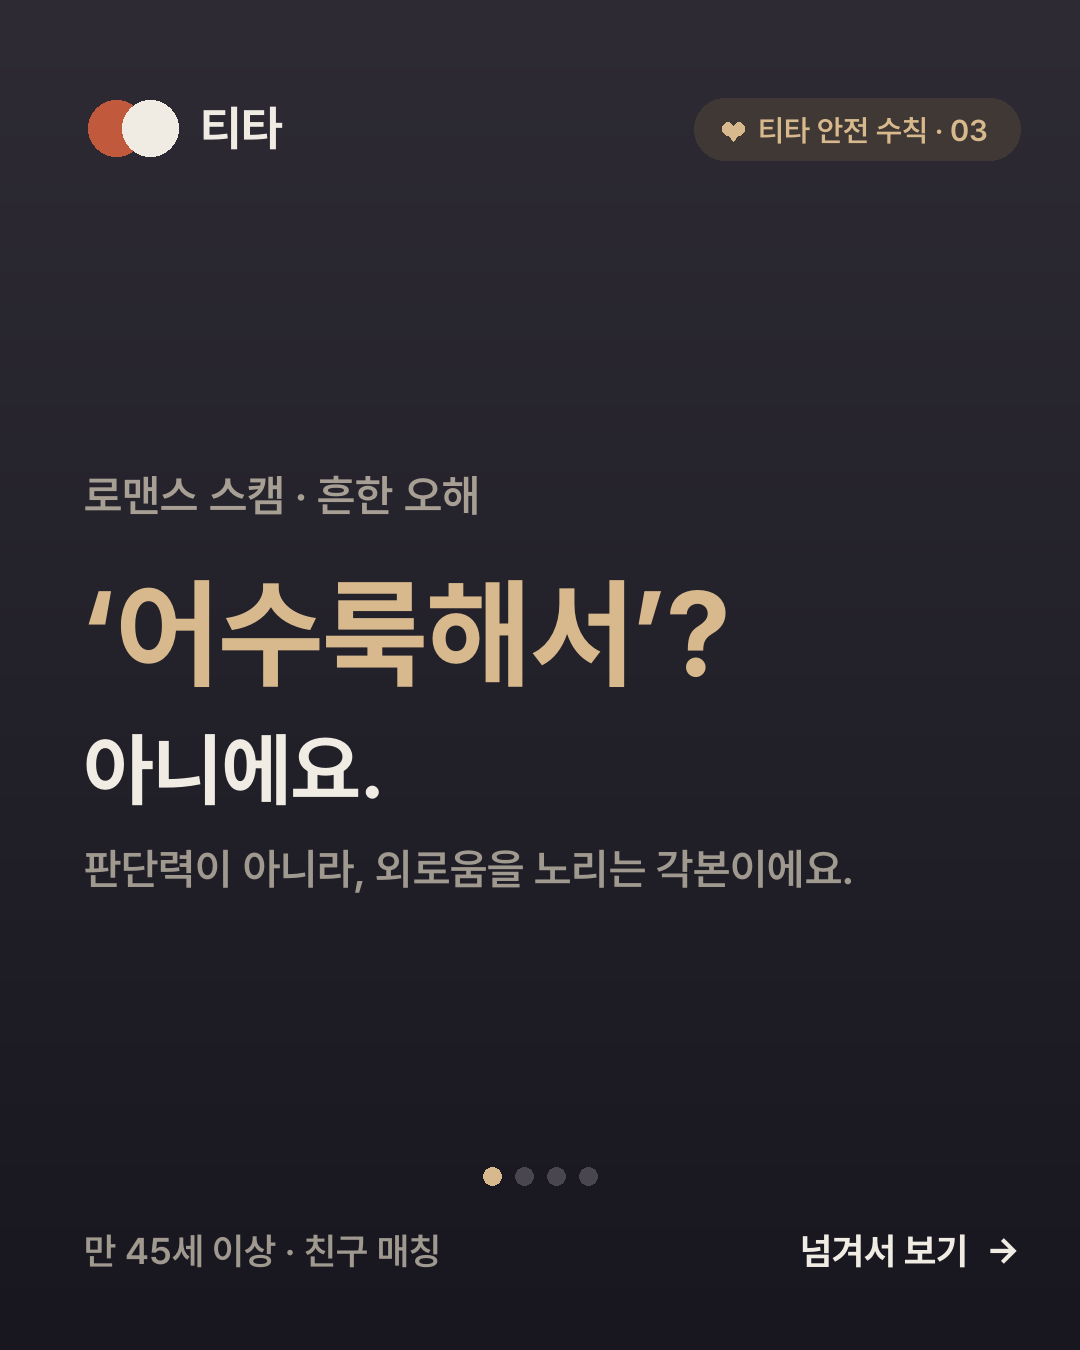
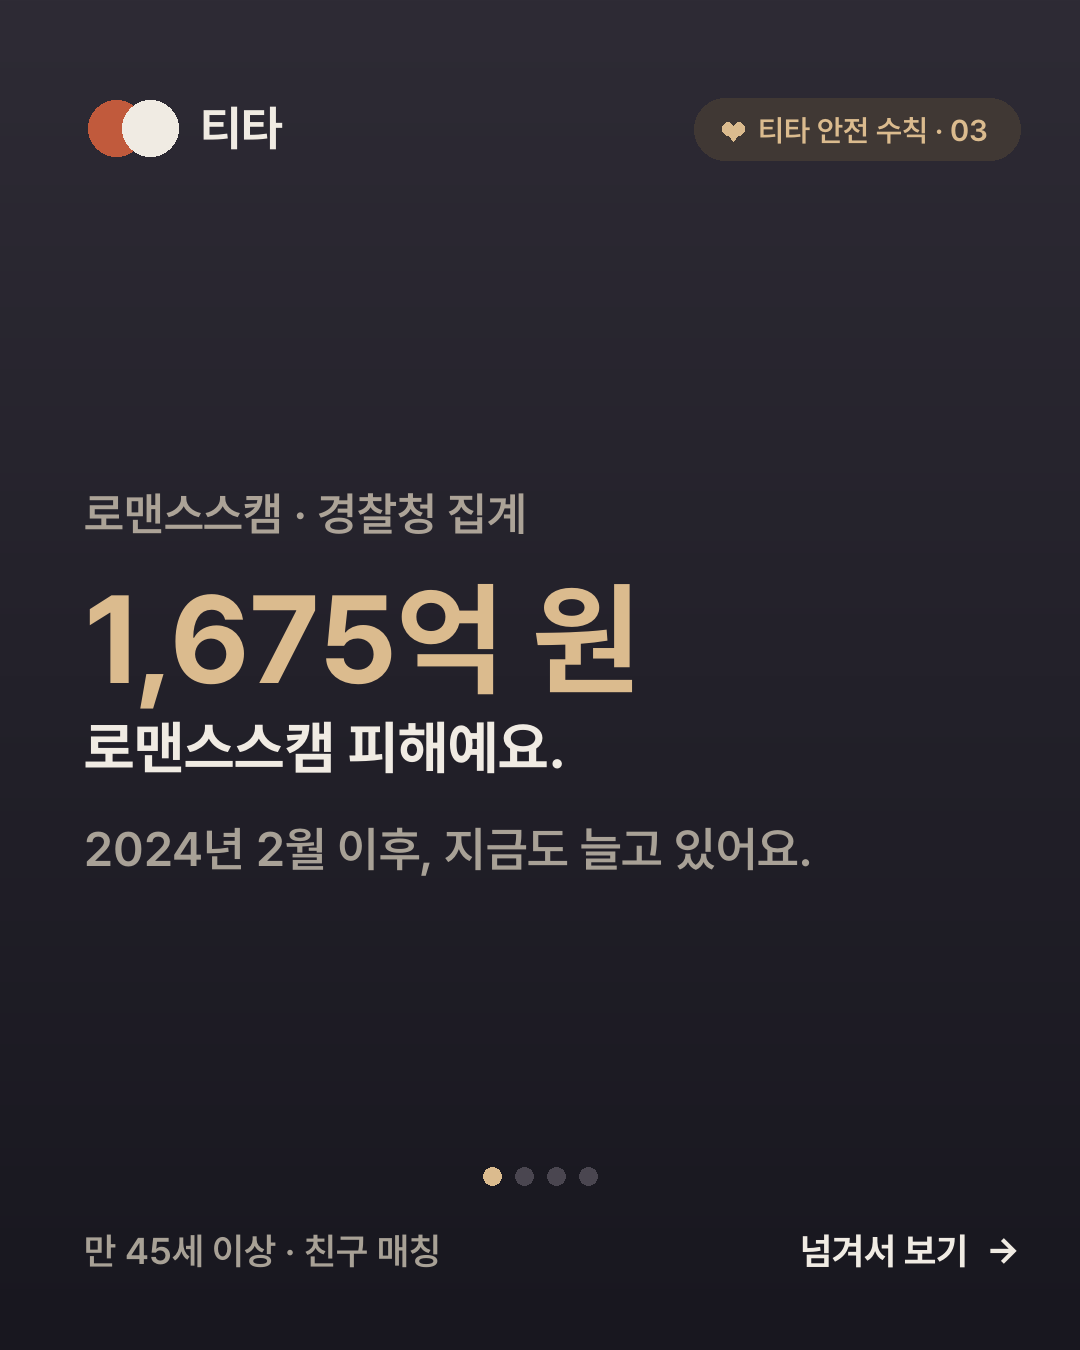
feat(blog): 리딩방 편(안전수칙 4) + 로맨스 편 통계·카드 갱신
- 신규: 투자 리딩방 사기 편 — 경찰청 2년 1조 2,901억(원문 확인)+FTC $5B.
  후크=숫자 먼저, '노후 지키려는 마음' 표현으로 명확화.
- 로맨스 편 통계 최신화: 2,428건·1,380억 → 2,830건·1,675억(2024.2~2025.10).
- 카드 새 규칙 재렌더(양편): 따옴표 제거→색(카멜)+크기 강조, subtext 확대,
  간격 균일, 후크=큰 숫자. 글번호 pill(로맨스 ·03, 리딩방 ·04).

Changed region(s): [[0.0611, 0.3422, 0.7944, 0.6533]]

diff --git a/src/app/blog/posts.ts b/src/app/blog/posts.ts
@@ -42,6 +42,118 @@ export interface BlogPost {
 
 export const POSTS: BlogPost[] = [
   {
+    slug: "investment-reading-room-scam",
+    title: "‘리딩방’은 어수룩해서 당하는 게 아닙니다 — 노후 자금을 노리는 각본",
+    description:
+      "‘나는 안 속아’가 가장 위험합니다. 리딩방은 무지가 아니라 ‘조금 더 준비하고 싶은’ 마음을 노려요. 수법의 신호와, 노후를 지키는 진짜 방어를 정리했습니다.",
+    date: "2026-07-28",
+    category: "안전 인사이트",
+    tags: [
+      "리딩방",
+      "투자 리딩방",
+      "투자 사기",
+      "주식 리딩",
+      "코인 리딩",
+      "노후 자금",
+      "5060",
+      "안전",
+    ],
+    cover: "/blog/reading-room-scam/card-1.png",
+    readingMinutes: 5,
+    body: [
+      {
+        type: "p",
+        text: "매달 **500억 원.** 불법 투자 리딩방으로 사라지는 돈입니다. 남의 일 같으세요? 리딩방은 어수룩한 사람을 노리는 게 아니에요. **노후가 걱정돼 여윳돈이라도 안전하게 불려두고 싶은**, 그 평범한 마음을 파고듭니다. 표적이 되는 건 무지가 아니라, 노후를 지키려는 평범한 마음이에요.",
+      },
+      { type: "h2", text: "각본은 ‘수익’부터 보여준다" },
+      {
+        type: "image",
+        src: "/blog/reading-room-scam/card-1.png",
+        alt: "리딩방은 어수룩해서 당하는 게 아니라 노후를 준비하려는 마음을 노린다 — 무지가 아니라 신뢰를 설계하는 수법이라는 티타 안전 수칙 카드",
+        caption: "티타 안전 수칙 · 04",
+      },
+      {
+        type: "p",
+        text: "리딩방은 처음부터 돈을 요구하지 않아요. 무료 오픈채팅방에 초대해 종목을 몇 개 찍어주고 — 그중 몇 개가 **실제로 오릅니다.** ‘어, 진짜네?’ 하는 순간 신뢰가 생겨요. 그 신뢰가 쌓인 **다음에야** ‘VIP방’, ‘원금 보장’, ‘확정 수익’이 나오고, 그제야 돈을 넣게 됩니다. 로맨스스캠이 감정을 설계하듯, 리딩방은 **믿음을 설계**해요.",
+      },
+      { type: "h2", text: "규모부터 다릅니다" },
+      {
+        type: "image",
+        src: "/blog/reading-room-scam/card-2.png",
+        alt: "경찰청 집계로 불법 투자 리딩방 피해는 2년간 1조 2,901억 원, 매달 500억 원이 사라진다는 티타 안전 수칙 카드",
+        caption: "매달 500억이 사라진다",
+      },
+      {
+        type: "p",
+        text: "경찰청 집계로, 불법 투자 리딩방 피해는 2023년 9월부터 2년간 신고 **14,629건, 피해액 1조 2,901억 원**에 이릅니다. **매달 평균 580건, 500억 원이 넘는 돈**이 사라져요. 같은 기간 로맨스스캠 피해(약 1,675억 원)의 몇 배 규모예요. 특히 리딩방은 **은퇴 자금·목돈**을 노리기 때문에, 한 번의 피해가 노후를 통째로 흔듭니다. 미국 FTC 집계에서도 투자사기는 2024년 손실이 50억 달러를 넘어, 모든 사기 유형 중 1인당 피해가 가장 컸습니다.",
+      },
+      {
+        type: "callout",
+        text: "리딩방이 노리는 건 무지가 아니라, 노후를 지키려는 평범한 마음입니다.",
+      },
+      { type: "h2", text: "이 신호가 보이면, 멈추세요" },
+      {
+        type: "image",
+        src: "/blog/reading-room-scam/card-3.png",
+        alt: "리딩방 경고 신호 — 확정 수익·원금 보장, 텔레그램 VIP방 유도, 처음 몇 번의 적중, 지금 아니면 늦는다는 압박, 잘 모르는 해외 신규 종목을 정리한 티타 안전 수칙 카드",
+        caption: "이 신호, 하나만 보여도",
+      },
+      {
+        type: "p",
+        text: "**① 확정 수익·원금 보장** — 세상에 원금이 보장되는 고수익은 없습니다(그 말 자체가 불법이에요). **② ‘VIP방’으로 유도** — 텔레그램·카톡 등 감독 밖으로 빼내는 단계입니다. **③ 처음 몇 번의 ‘적중’** — 신뢰를 사려는 미끼예요. **④ ‘지금 아니면 늦어요’** — 판단할 시간을 주지 않습니다. **⑤ 잘 모르는 해외 신규 상장 종목** — 요즘 수법의 특징이에요. 이 중 **하나만 보여도**, 돈을 넣기 전에 멈추세요.",
+      },
+      { type: "h2", text: "진짜 방어는 ‘넣기 전에 물어볼 사람’" },
+      {
+        type: "image",
+        src: "/blog/reading-room-scam/card-4.png",
+        alt: "진짜 방어는 확정 수익은 거짓이라는 사실과, 돈을 넣기 전에 물어볼 사람이 곁에 있는 것 — 혼자 결정하지 않는 것이 노후를 지킨다는 티타 안전 수칙 카드",
+        caption: "넣기 전에, 한 사람에게만",
+      },
+      {
+        type: "p",
+        text: "‘투자 조심하세요’라는 말로는 안 막혀요. 진짜 방어는 두 가지예요. 하나는 **확정 수익은 100% 거짓**이라는 사실 하나를 기억하는 것. 다른 하나는 — 더 중요한데 — **돈을 넣기 전에 물어볼 사람**이 곁에 있는 것. 혼자 판단하면 ‘지금 아니면 늦어요’에 흔들리지만, 단 한 사람에게라도 말해보면 대개 멈추게 됩니다.",
+      },
+      { type: "h2", text: "그래서 티타는" },
+      {
+        type: "p",
+        text: "티타는 그 ‘물어볼 사람’을 곁에 둡니다. **NICE 본인인증**을 통과한 검증된 또래와 이어지고, 투자 유도·수상한 링크·금전 요청 같은 신호를 **AI가 실시간으로 감지**해요. 의심스러운 메시지나 ‘좋은 투자’ 이야기가 있으면 캡처해서 티타에게 물어보세요 — **상대가 무엇을 원하는지, 얼마나 수상한지 읽어드립니다.** 노후를 지키는 일은 결국, 혼자 결정하지 않는 것에서 시작돼요.",
+      },
+      {
+        type: "quote",
+        text: "확정 수익은 없습니다. 대신, 넣기 전에 물어볼 사람은 있어야 합니다.",
+      },
+    ],
+    sources: [
+      {
+        label:
+          "경찰청 불법 투자 리딩방 피해 집계(2023년 9월~2025년 9월) — 신고 14,629건·피해액 1조 2,901억 원, 언론 종합 보도",
+        url: "https://www.ebn.co.kr/news/articleView.html?idxno=1683680",
+      },
+      {
+        label:
+          "U.S. Federal Trade Commission, “Consumer Sentinel Network Data Book 2024” (2025) — 투자사기 손실 $5B 초과, 투자 관련 중간 피해 $9,196",
+        url: "https://www.ftc.gov/system/files/ftc_gov/pdf/csn-annual-data-book-2024.pdf",
+      },
+      {
+        label: "금융감독원 — 불법 유사투자자문·리딩방 주의 안내 (대한민국)",
+      },
+    ],
+    faq: [
+      {
+        q: "투자 리딩방 사기가 무엇인가요?",
+        a: "무료 채팅방에서 종목 추천으로 신뢰를 쌓은 뒤, ‘VIP방’·‘원금 보장’·‘확정 수익’을 미끼로 돈을 넣게 하는 사기입니다. 처음 몇 번은 실제로 수익을 보여줘 믿음을 산 뒤 큰돈을 편취하는 것이 특징입니다.",
+      },
+      {
+        q: "왜 중장년·60대가 표적이 되나요?",
+        a: "어리석어서가 아닙니다. 은퇴 자금·목돈이 있고, ‘노후를 조금 더 준비하고 싶은’ 불안을 노리기 때문입니다. 그래서 한 번의 피해 규모가 젊은 층보다 훨씬 큽니다.",
+      },
+      {
+        q: "어떻게 예방하나요?",
+        a: "‘원금 보장·확정 수익’은 그 말 자체가 거짓이자 불법입니다. VIP방 유도, 처음 몇 번의 적중, ‘지금 아니면 늦는다’는 압박 같은 신호를 기억하세요. 그리고 돈을 넣기 전에 반드시 곁의 누군가에게 물어보세요. 티타는 본인인증된 또래와 AI 안전망으로 그 ‘물어볼 사람’을 곁에 둡니다.",
+      },
+    ],
+  },
+  {
     slug: "romance-scam-targets-loneliness",
     title: "로맨스스캠은 어수룩해서 당하는 게 아닙니다 — 외로움을 노리는 수법",
     description:
@@ -85,7 +197,7 @@ export const POSTS: BlogPost[] = [
       },
       {
         type: "p",
-        text: "사기꾼이 표적을 고르는 기준은 재산만이 아닙니다. **‘지금 곁에 기댈 사람이 없는가’** — 그게 더 중요합니다. 자녀가 독립하고, 은퇴하고, 배우자와 사별하거나 멀어지며 일상의 연결이 얇아지는 시기 — 그 **연결의 빈자리**가 클수록, 매일 다정하게 말 거는 낯선 이의 존재감은 커집니다. 규모도 가파릅니다. 경찰청이 로맨스스캠을 따로 집계하기 시작한 2024년 2월 이후 신고는 **2,428건, 피해액 약 1,380억 원**에 이르고(월평균 135건), 최근 반년 새 신고 건수만 34.7% 늘었습니다. 이건 한국만의 일도 아닙니다 — 미국에서도 사기꾼 사칭(로맨스스캠 포함) 피해가 2024년 한 해 약 **30억 달러**로 보고됐을 만큼(FTC 집계), 외로움을 노리는 이 수법은 국경이 없어요. 문제의 뿌리는 피해자의 판단력이 아니라 **고립**입니다.",
+        text: "사기꾼이 표적을 고르는 기준은 재산만이 아닙니다. **‘지금 곁에 기댈 사람이 없는가’** — 그게 더 중요합니다. 자녀가 독립하고, 은퇴하고, 배우자와 사별하거나 멀어지며 일상의 연결이 얇아지는 시기 — 그 **연결의 빈자리**가 클수록, 매일 다정하게 말 거는 낯선 이의 존재감은 커집니다. 규모도 가파릅니다. 경찰청 집계로, 로맨스스캠 피해는 통계를 잡기 시작한 2024년 2월 이후 신고 **2,830건, 피해액 약 1,675억 원**에 이르고 지금도 늘고 있습니다. 이건 한국만의 일도 아닙니다 — 미국에서도 사기꾼 사칭(로맨스스캠 포함) 피해가 2024년 한 해 약 **30억 달러**로 보고됐을 만큼(FTC 집계), 외로움을 노리는 이 수법은 국경이 없어요. 문제의 뿌리는 피해자의 판단력이 아니라 **고립**입니다.",
       },
       {
         type: "callout",
@@ -135,8 +247,8 @@ export const POSTS: BlogPost[] = [
       },
       {
         label:
-          "경찰청 로맨스스캠 피해 집계(2024년 2월~) — 누적 2,428건·약 1,380억 원, 언론 종합 보도",
-        url: "https://dgmbc.com/NewsArticle/636100",
+          "경찰청 로맨스스캠 피해 집계(2024년 2월~2025년 10월) — 신고 2,830건·약 1,675억 원, 언론 종합 보도",
+        url: "https://www.ebn.co.kr/news/articleView.html?idxno=1683680",
       },
     ],
     faq: [
